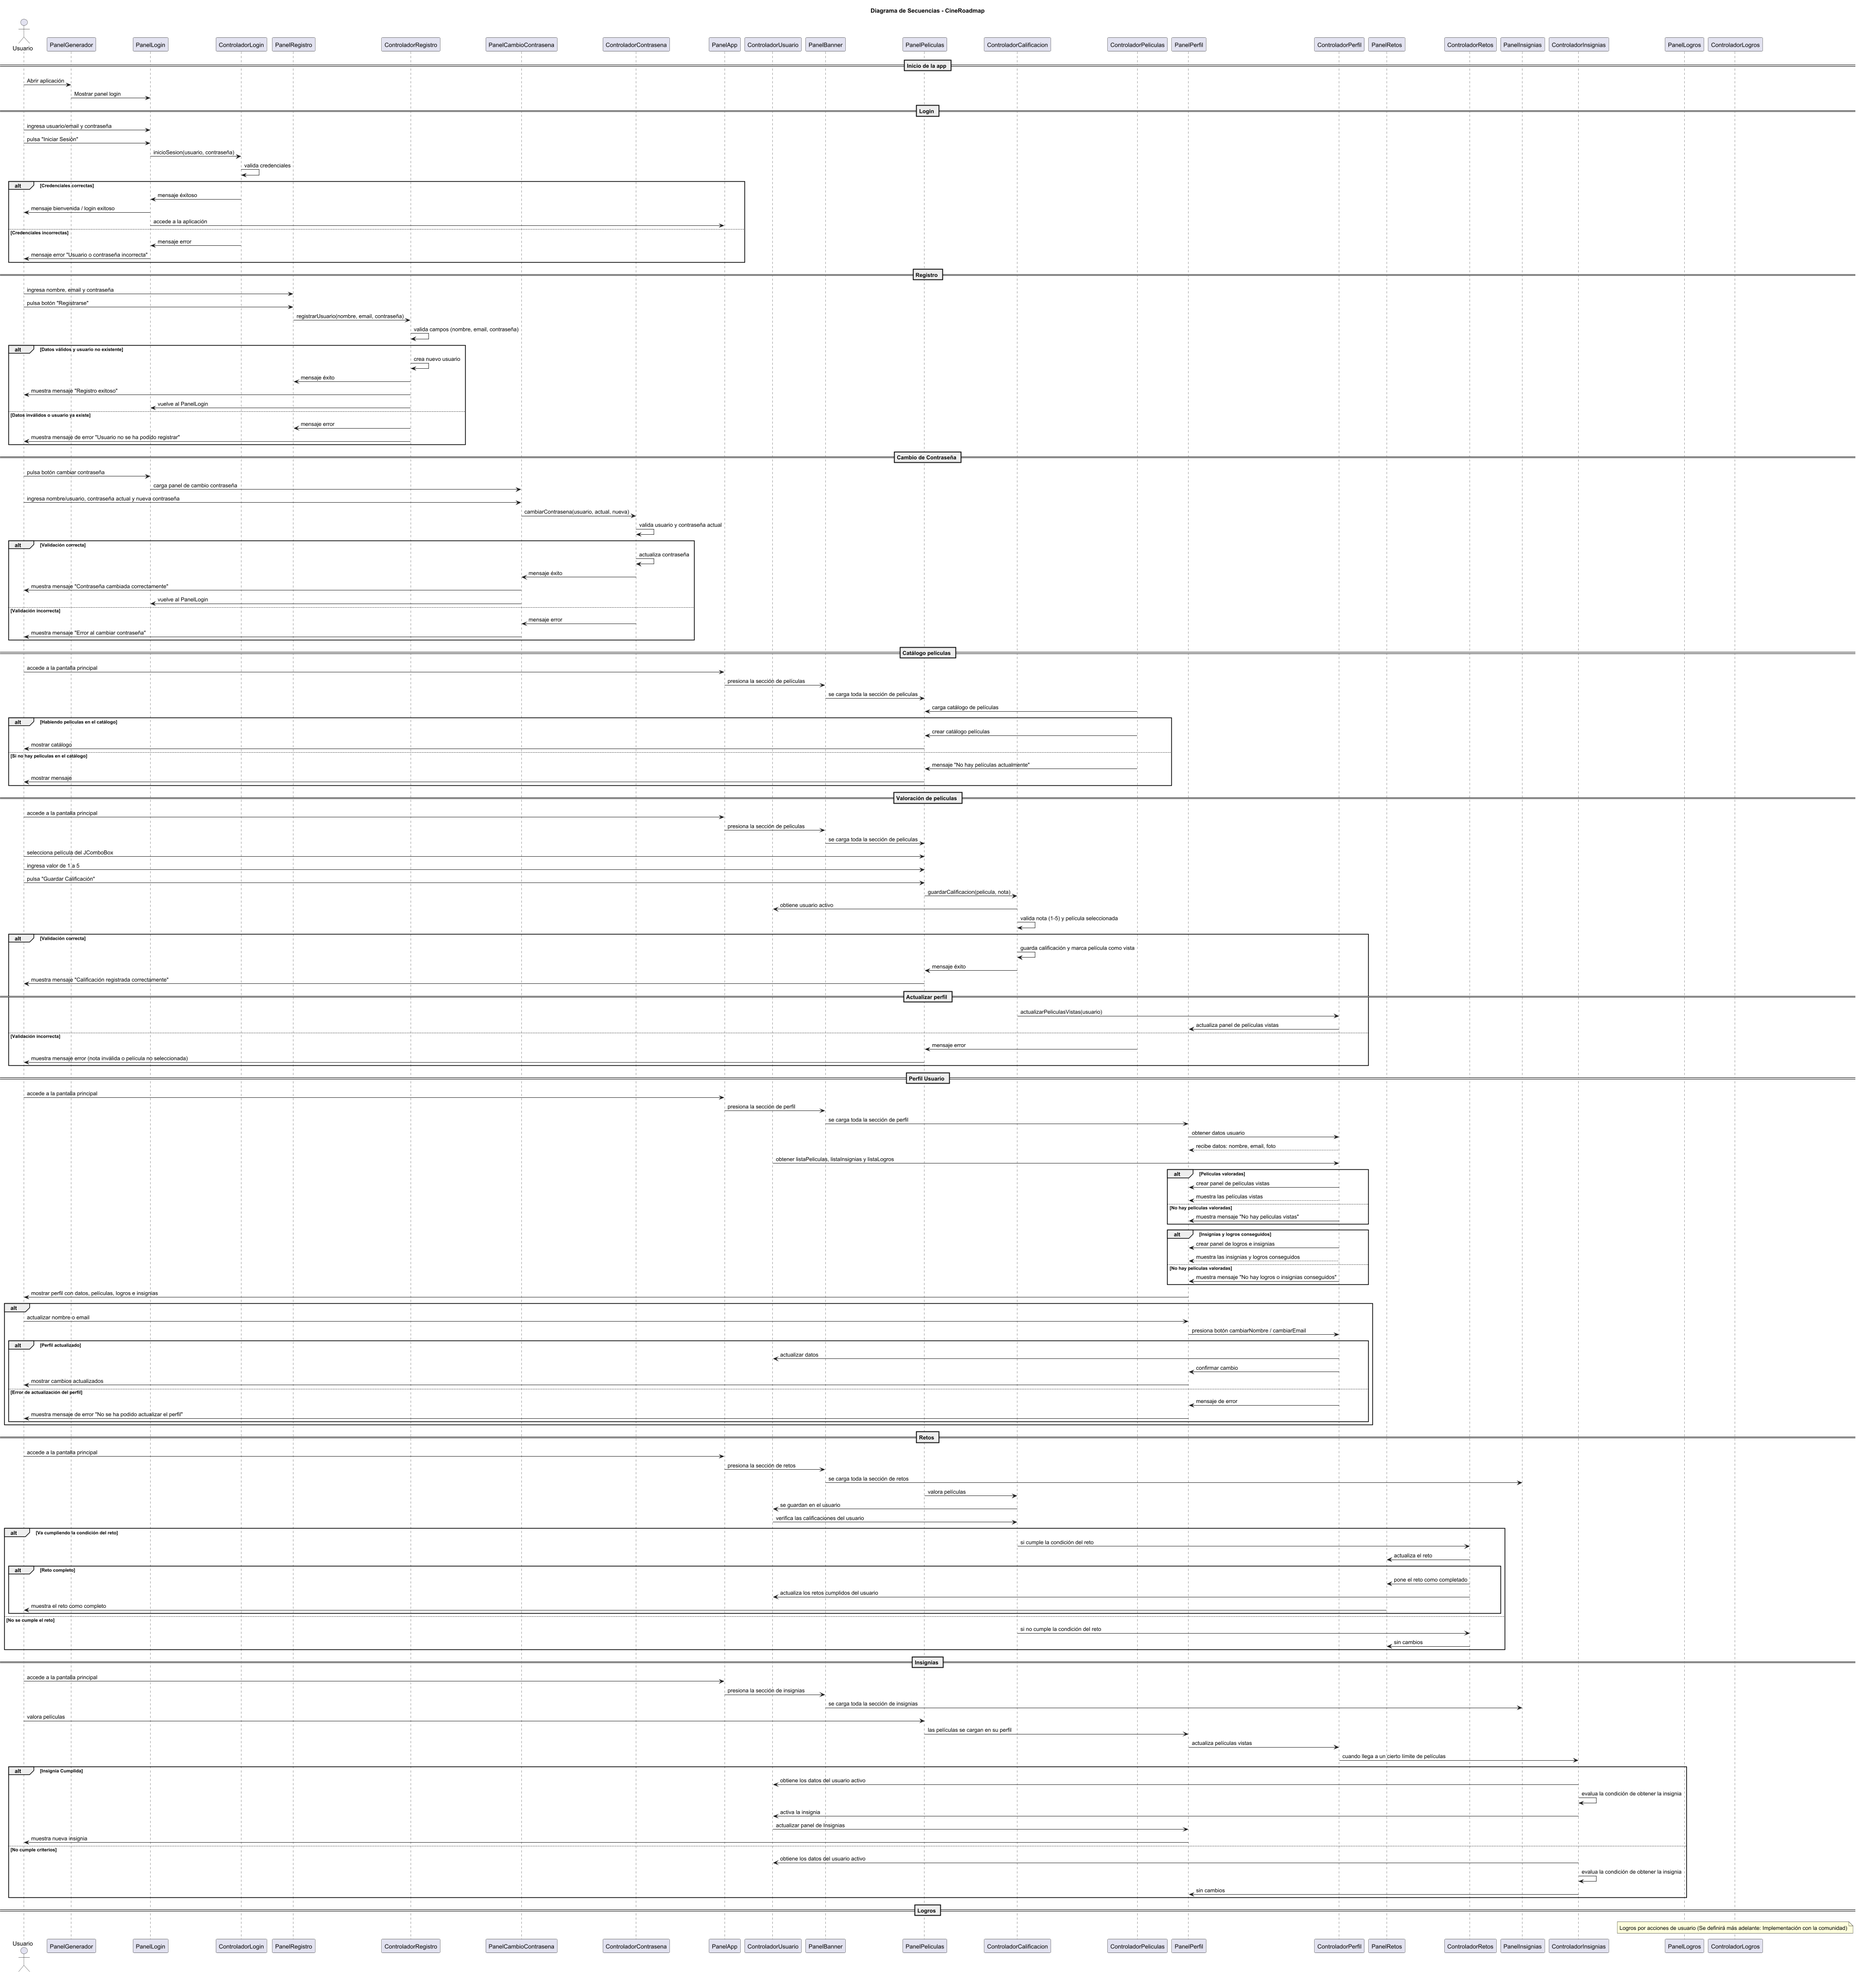
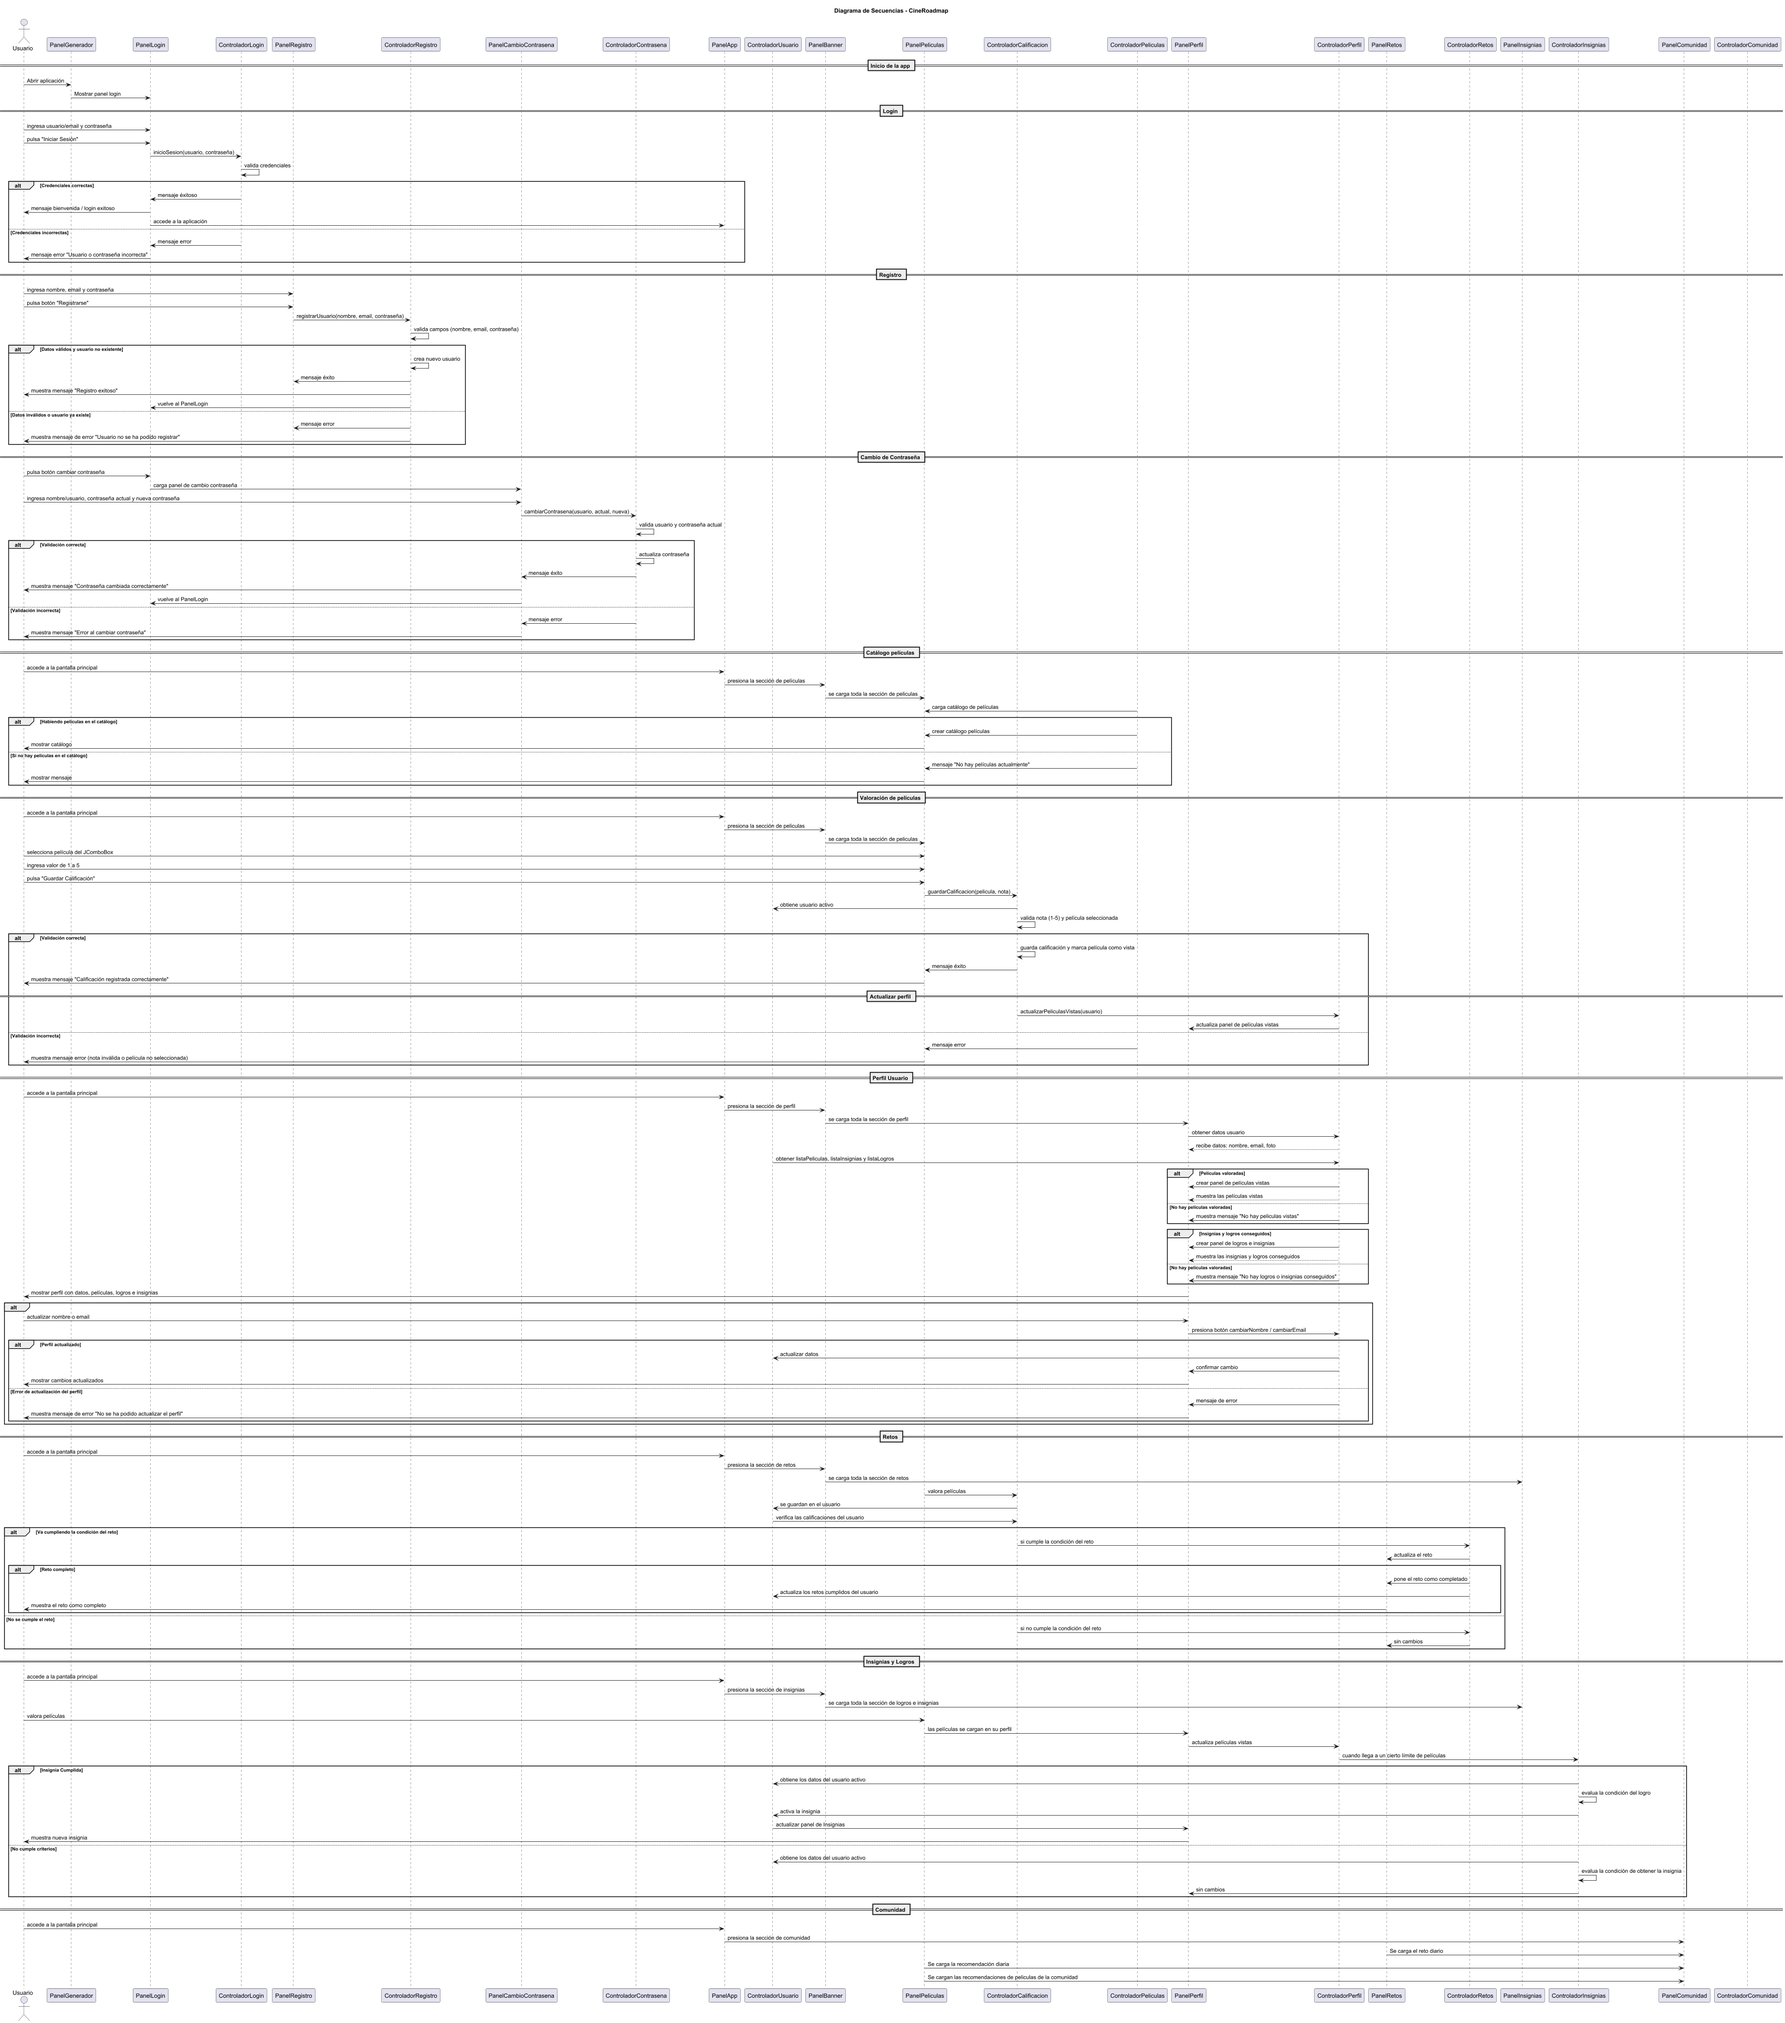
Cambios Logros

diff --git a/src/main/app/Modelo/Logro.java b/src/main/app/Modelo/Logro.java
@@ -1,12 +1,79 @@
 package main.app.Modelo;
 
+import java.util.ArrayList;
+
 public class Logro
 {
-    private int idLogro;
     private String nombreLogro;
     private String descripcionLogro;
+    private boolean isComplete;
+    private Insignia insignia;
+
+    public Logro(String nombre, String descripcion, Insignia insignia)
+    {
+        this.nombreLogro = nombre;
+        this.descripcionLogro = descripcion;
+        this.isComplete = false;
+        this.insignia = insignia;
+    }
+
+    public void completar()
+    {
+        isComplete = true;
+        insignia.desbloquear();
+    }
 
     public String getnombreReto() { return this.nombreLogro; }
-    public int getID() { return this.idLogro; }
     public String getDescripcion() { return this.descripcionLogro; }
+    public boolean getCompleto() { return this.isComplete; }
+    public Insignia getInsignia() { return this.insignia; }
+}
+
+
+class LogroCantidad extends Logro
+{
+    private int objetivo;
+
+    public LogroCantidad(String nombre, String descripcion, int objetivo, Insignia insignia)
+    {
+        super(nombre, descripcion, insignia);
+        this.objetivo = objetivo;
+    }
+}
+
+class LogroPelicula extends Logro {
+
+    private String nombrePelicula;
+
+    public LogroPelicula(String nombre, String descripcion, String nombrePelicula, Insignia insignia) {
+        super(nombre, descripcion, insignia);
+        this.nombrePelicula = nombrePelicula;
+    }
+}
+
+class LogroGenero extends Logro {
+
+    private String genero;
+    private int objetivo;
+
+
+    public LogroGenero(String nombre, String descripcion, String genero, int objetivo,Insignia insignia) {
+        super(nombre, descripcion, insignia);
+        this.genero = genero;
+        this.objetivo = objetivo;
+    }
+}
+
+class CatalogoLogros
+{
+    private static ArrayList<Logro> logros = new ArrayList<>();
+    private static void cargarLogros()
+    {
+        logros.add(new LogroCantidad("Primeros pasos", "Evalúa 1 película", 1, new Insignia("/main/resources/img/primer.jpg")));
+        logros.add(new LogroCantidad("Cinéfilo experto", "Evalúa 10 películas", 10, new Insignia("/main/resources/img/cinefiloexperto.jpg")));
+        logros.add(new LogroGenero("Amante de la Ciencia Ficción", "Evalúa 3 películas de ciencia ficción", "Ciencia Ficción", 3,new Insignia("/main/resources/img/primer.jpg")));
+        logros.add(new LogroPelicula("Clásico de acción", "Evalúa la película 12 Angry Men", "12 Angry Men", new Insignia("/main/resources/img/clasic.jpg")));
+    }
+
+    public static ArrayList<Logro> getLogros() { return logros; }
 }

diff --git a/src/main/app/Vista/PanelBanner.java b/src/main/app/Vista/PanelBanner.java
@@ -86,24 +86,33 @@ public class PanelBanner {
         for (int i = 0; i < labels.length; i++) {
             JLabel label = labels[i];
             String pantalla = pantallas[i];
-            label.addMouseListener(new MouseAdapter() {
+            label.addMouseListener(new MouseAdapter() 
+            {
                 @Override
-                public void mouseClicked(MouseEvent e) {
-                    if (pantalla.equals("LogrosInsignias") || pantalla.equals("Retos") || pantalla.equals("Comunidad")) {
+                public void mouseClicked(MouseEvent e) 
+                {
+                    if (pantalla.equals("LogrosInsignias") || pantalla.equals("Retos") || pantalla.equals("Comunidad")) 
+                    {
                         JOptionPane.showMessageDialog(PanelGenerador.getMain(),
                                 "Sección todavía no implementada",
                                 "Información",
                                 JOptionPane.INFORMATION_MESSAGE);
-                    } else if (pantalla.equals("Login")) {
+                    } 
+                    else if (pantalla.equals("Login")) 
+                    {
                         JOptionPane.showMessageDialog(PanelGenerador.getMain(),
                                 "Cerrando Sesión " + ControladorUsuario.getUsuarioActivo().getnombreUsuario(),
                                 "Cerrar Sesión",
                                 JOptionPane.INFORMATION_MESSAGE);
                         ControladorUsuario.setUsuarioActivo();
-                    } else if (pantalla.equals("Perfil")) {
+                    } 
+                    else if (pantalla.equals("Perfil")) 
+                    {
                         PanelGenerador.getMain().add(PanelPerfil.crearPanelPerfil(), "Perfil");
                         PanelGenerador.getColocacion().show(PanelGenerador.getMain(), "Perfil");
-                    } else if (pantalla.equals("Peliculas")) {
+                    } 
+                    else if (pantalla.equals("Peliculas")) 
+                    {
                         PanelGenerador.getMain().add(PanelPeliculas.crearPanelPeliculas(), "Peliculas");
                         PanelGenerador.getColocacion().show(PanelGenerador.getMain(), "Peliculas");
                     }

diff --git a/src/main/app/Controlador/ControladorLogros.java b/src/main/app/Controlador/ControladorLogros.java
@@ -1,0 +1,52 @@
+package main.app.Controlador;
+
+import main.app.Modelo.*;
+
+import java.util.ArrayList;
+
+public class ControladorLogros 
+{
+    public static void evaluar(Usuario usuario)
+    {
+        ArrayList<Logro> catalogo = CatalogoLogros.getLogros();
+        int totalPeliculasEvaluadas = usuario.getPeliculas().size();
+
+        for(Logro l : catalogo)
+        {
+            // Logros por cantidad de películas
+            if(l instanceof LogroCantidad)
+            {
+                LogroCantidad lc = (LogroCantidad) l;
+                if(!lc.getCompleto() && totalPeliculasEvaluadas >= lc.objetivo)
+                {
+                    lc.completar();
+                }
+            }
+
+            // Logros por género
+            if(l instanceof LogroGenero)
+            {
+                LogroGenero lg = (LogroGenero) l;
+                long count = usuario.getPeliculas().stream()
+                                .filter(p -> p.getGeneros().contains(lg.genero))
+                                .count();
+                if(!lg.getCompleto() && count >= lg.objetivo)
+                {
+                    lg.completar();
+                }
+            }
+
+            // Logros por película específica
+            if(l instanceof LogroPelicula)
+            {
+                LogroPelicula lp = (LogroPelicula) l;
+                boolean evaluada = usuario.getPeliculas().stream()
+                                    .anyMatch(p -> p.getnombrePelicula().equals(lp.nombrePelicula));
+                if(!lp.getCompleto() && evaluada)
+                {
+                    lp.completar();
+                }
+            }
+        }
+    }
+}

diff --git a/src/main/app/Modelo/Usuario.java b/src/main/app/Modelo/Usuario.java
@@ -12,7 +12,6 @@ public class Usuario
     private static ArrayList<Usuario> listaUsuarios = new ArrayList<>();
     private ArrayList<Reto> listaRetos = new ArrayList<>();
     private ArrayList<Logro> listaLogros = new ArrayList<>();
-    private ArrayList<Insignia> listaInsignias = new ArrayList<>();
 
     public Usuario(String contrasena, String email, String nombreUsuario, String fotoUsuario)
     {
@@ -36,6 +35,7 @@ public class Usuario
     public void setFoto(String foto) { this.fotoUsuario = foto; }
     public static void setUsuarios (Usuario usuario) { listaUsuarios.add(usuario); }
     public void setPeliculas (Pelicula pelicula) { this.listaPeliculas.add(pelicula); }
+    public void setLogros(Logro logro) { listaLogros.add(logro); }
 
     public String getnombreUsuario() { return this.nombreUsuario; }
     public String getEmail() { return this.email; }
@@ -43,4 +43,5 @@ public class Usuario
     public String getFoto() { return this.fotoUsuario; }
     public ArrayList<Pelicula> getPeliculas() { return listaPeliculas; }
     public static ArrayList<Usuario>  getUsuarios() { return listaUsuarios; }
+    public ArrayList<Logro> getLogros() { return listaLogros; }
 }

diff --git a/src/main/app/Modelo/Insignia.java b/src/main/app/Modelo/Insignia.java
@@ -1,12 +1,19 @@
 package main.app.Modelo;
 
+import javax.swing.ImageIcon;
+
 public class Insignia
 {
-    private int idInsignia;
-    private String nombreInsignia;
-    private String descripcionInsignia;
+    private ImageIcon imagen;
+    private boolean desbloqueada;
 
-    public String getnombreReto() { return this.nombreInsignia; }
-    public int getID() { return this.idInsignia; }
-    public String getDescripcion() { return this.descripcionInsignia; }
+    public Insignia(String rutaImagen)
+    {
+        this.imagen = new ImageIcon(rutaImagen);
+        this.desbloqueada = false;
+    }
+
+    public void desbloquear() { desbloqueada = true; }
+    public boolean getBloqueo() { return desbloqueada; }
+    public ImageIcon getInsignia() { return imagen; }
 }

diff --git a/src/main/app/Controlador/ControladorCalificacion.java b/src/main/app/Controlador/ControladorCalificacion.java
@@ -52,6 +52,7 @@ public class ControladorCalificacion
                 usuario.setPeliculas(pelicula);
             }
             return null;
+            //ControladorLogros.actualizarLogros(usuario);
         } 
         catch (Exception e) 
         {
